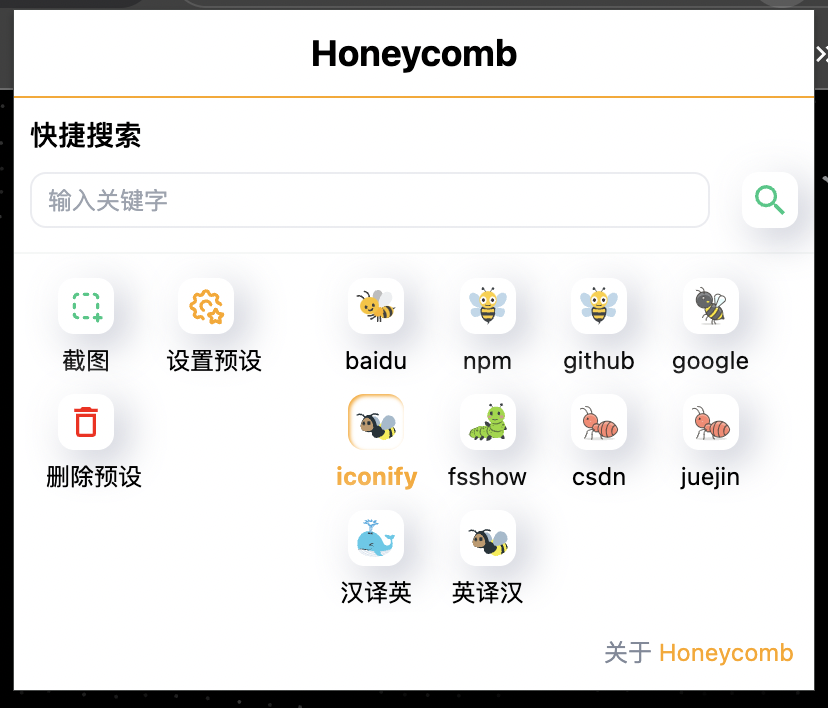
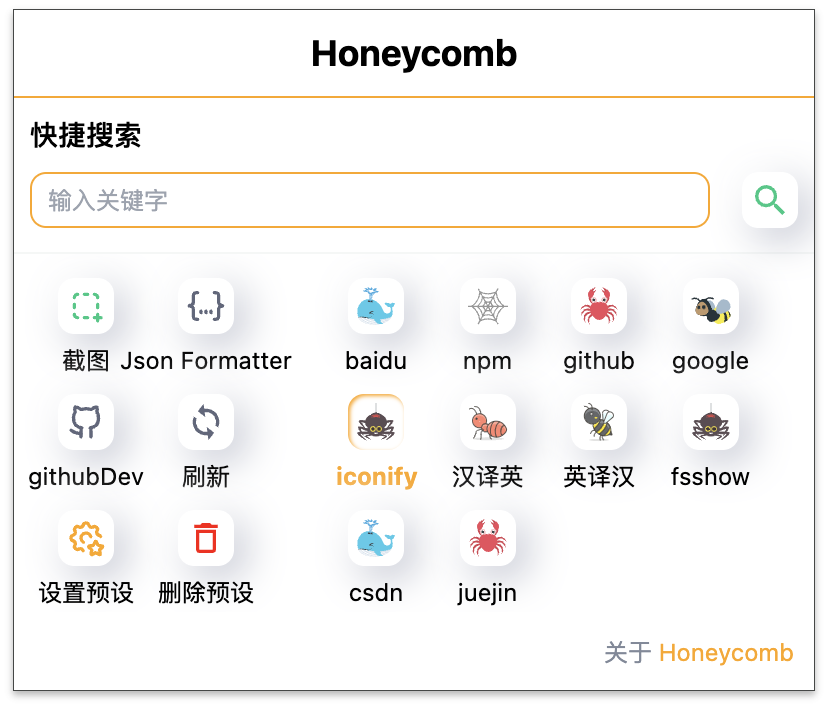
feat: optimize docs

diff --git a/pages/posts/about-honeycomb.md b/pages/posts/about-honeycomb.md
@@ -23,8 +23,6 @@ type: note
 
 ## honeycomb
 
-![honeycomb](../../public/images/honeycomb/honeycomb.png)
-
 #### 介绍
 
 想象一下，有一个小工具能让你在浏览器里像蜜蜂一样快速穿梭于各种网页，找到你需要的花蜜——信息。这就是`honeycomb`，一个基于[plasmo](https://plasmo.com)的浏览器扩展，它能让你以光速访问和搜索网页内容，支持任何通过URL中GET参数搜索的网站。
@@ -47,9 +45,41 @@ type: note
 5. 🎛 打开`开发者模式`。
 6. 📚 点击`加载已解压的扩展程序`，选择`honeycomb` --> `build` --> `chrome-mv3-prod`文件夹。
 
-### 功能清单
+### 功能/亮点清单
 
-#### 一键导入预设
+| 功能/亮点                      | 描述                                                       |
+| ------------------------------ | ---------------------------------------------------------- |
+| 快捷搜索                       | 在搜索框中输入关键字，选择搜索目标，点击`搜索`按钮或回车。 |
+| 区域截图                       | 快速截取网页区域，截图内容自动填充到剪切板。               |
+| json数据美化                   | 将 JSON 数据漂亮地打印到 HTML 中以进行缩进和着色。         |
+| githubDev                      | 一键打开GitHub页面，在VSCode中查看源码。                   |
+| 刷新                           | 强制刷新当前页面，清除本地存储，确保最新内容。             |
+| 添加/删除预设                  | 添加/删除你常用的搜索网站，一键直达。                      |
+| 掘金，csdn等网站解除外链限制   | 解除网站外链访问限制，自由访问相关内容。                   |
+| 右键操作菜单                   | 将功能集成到右键菜单，方便快速操作。                       |
+| scdn自动展开内容不需要点击关注 | 自动展开内容，无需点击关注即可查看。                       |
+| 点亮徽标                       | 快速打开插件、截图、刷新页面。                             |
+
+### 右键操作菜单
+
+| 功能/亮点     | 描述                                               |
+| ------------- | -------------------------------------------------- |
+| open          | 快速打开插件，开始你的搜索之旅。                   |
+| search        | 快捷搜索                                           |
+| refresh       | 强制刷新当前页面，清除本地存储，确保最新内容。     |
+| githubDev     | 一键打开GitHub页面，查看源码，优化你的代码审查流程 |
+| jsonFormatter | json数据美化                                       |
+
+### 快捷键
+
+| 功能/亮点                                                      | 描述                                               |
+| -------------------------------------------------------------- | -------------------------------------------------- |
+| 🚀 Alt + O                                                     | 快速打开插件，开始你的搜索之旅。                   |
+| <span i-tabler:screenshot class="text-[teal]"/> Alt + A        | 快速截取网页区域，截图内容自动填充到剪切板。       |
+| <span i-eos-icons:arrow-rotate class="text-[#ff9900]"/>Alt + C | 强制刷新当前页面，清除本地存储，确保最新内容。     |
+| <span i-line-md:github-loop class="text-[#24292e]"/> Alt + G   | 一键打开GitHub页面，查看源码，优化你的代码审查流程 |
+
+#### 导入预设
 
 - 🖹 点击`设置预设`按钮，弹出预设窗口。
 - 📥 点击`一键导入预设`按钮，里面预设了一些常用的搜索网站，让你的搜索更快捷。
@@ -60,9 +90,16 @@ type: note
 - 📝 点击`添加预设`按钮，在弹出的窗口中填写`名称`、`url前缀`和`url后缀`，定制你的搜索体验。
   ![添加预设](../../public/images/honeycomb/setting.png)
 
-##### 使用
+#### 删除预设
+
+- 🖹 点击`删除预设`按钮，弹出删除预设窗口。
+- 🗑 点击`删除预设`按钮，删除你不再需要的搜索网站。
+  ![删除预设](../../public/images/honeycomb/delete.png)
+
+#### 搜索
 
 - 🔍 在搜索框中输入关键字，点击`搜索`按钮或回车，浏览器就会打开搜索结果页面。
+  ![honeycomb](../../public/images/honeycomb/honeycomb.png)
 
 #### 区域截图
 
@@ -73,16 +110,37 @@ type: note
 
 - 📦 点击`githubDev`按钮，浏览器会自动打开`vscode`，并打开对应的`github`仓库，让你更方便地查看源码。
 
+#### json数据美化
+
+- 📦 点击`jsonFormatter`按钮，浏览器会自动打开`jsonFormatter`，输入框输入对应的`json`数据，让你更方便地查看数据。
+  ![json数据美化](../../public/images/honeycomb/jsonFormatter.png)
+
+#### 解除外链限制
+
+- 打开预设的网站，右上角徽标点亮，会自动解除外链限制，让你自由访问相关内容。
+  ![解除外链限制](../../public/images/honeycomb/externalLink.png)
+
+##### 预设网站 【csdn ，掘金 ，知乎 ，简书，开源中国，码云】
+
+- [CSDN](https://www.csdn.net/)
+- [掘金](https://juejin.cn/)
+- [知乎](https://www.zhihu.com/)
+- [简书](https://www.jianshu.com/)
+- [开源中国](https://www.oschina.net/)
+- [码云](https://gitee.com/)
+
+#### 无需恶心的关注
+
+- 📦 打开预设的网站，右上角徽标点亮，会自动展开内容，无需点击关注即可查看。
+  ![notAbout](../../public/images/honeycomb/notAbout.png)
+
+#### 右键操作菜单
+
+![rightKeys](../../public/images/honeycomb/rightKeys.png)
+
 #### 强制刷新当前页面
 
 - 🔄 点击`刷新`按钮，浏览器会清除当前网页本地『localStorage、sessionStorage、cookie』，强制刷新当前页面，让你看到最新的页面内容。
-
-#### 快捷键
-
-- 🚀 `Alt + O`：打开插件界面，快速开始你的搜索之旅。
-- <span i-tabler:screenshot class="text-[teal]"/> `Alt + A`：启动区域截图功能，让截图变得简单又快捷。
-- <span i-eos-icons:arrow-rotate class="text-[#ff9900]"/> `Alt + C`：强制刷新当前页面，确保你看到的是最新内容。
-- <span i-line-md:github-loop class="text-[#24292e]"/> `Alt + G`：一键打开GitHub页面，在VSCode中查看源码，优化你的代码审查流程。
 
 #### 注意
 
